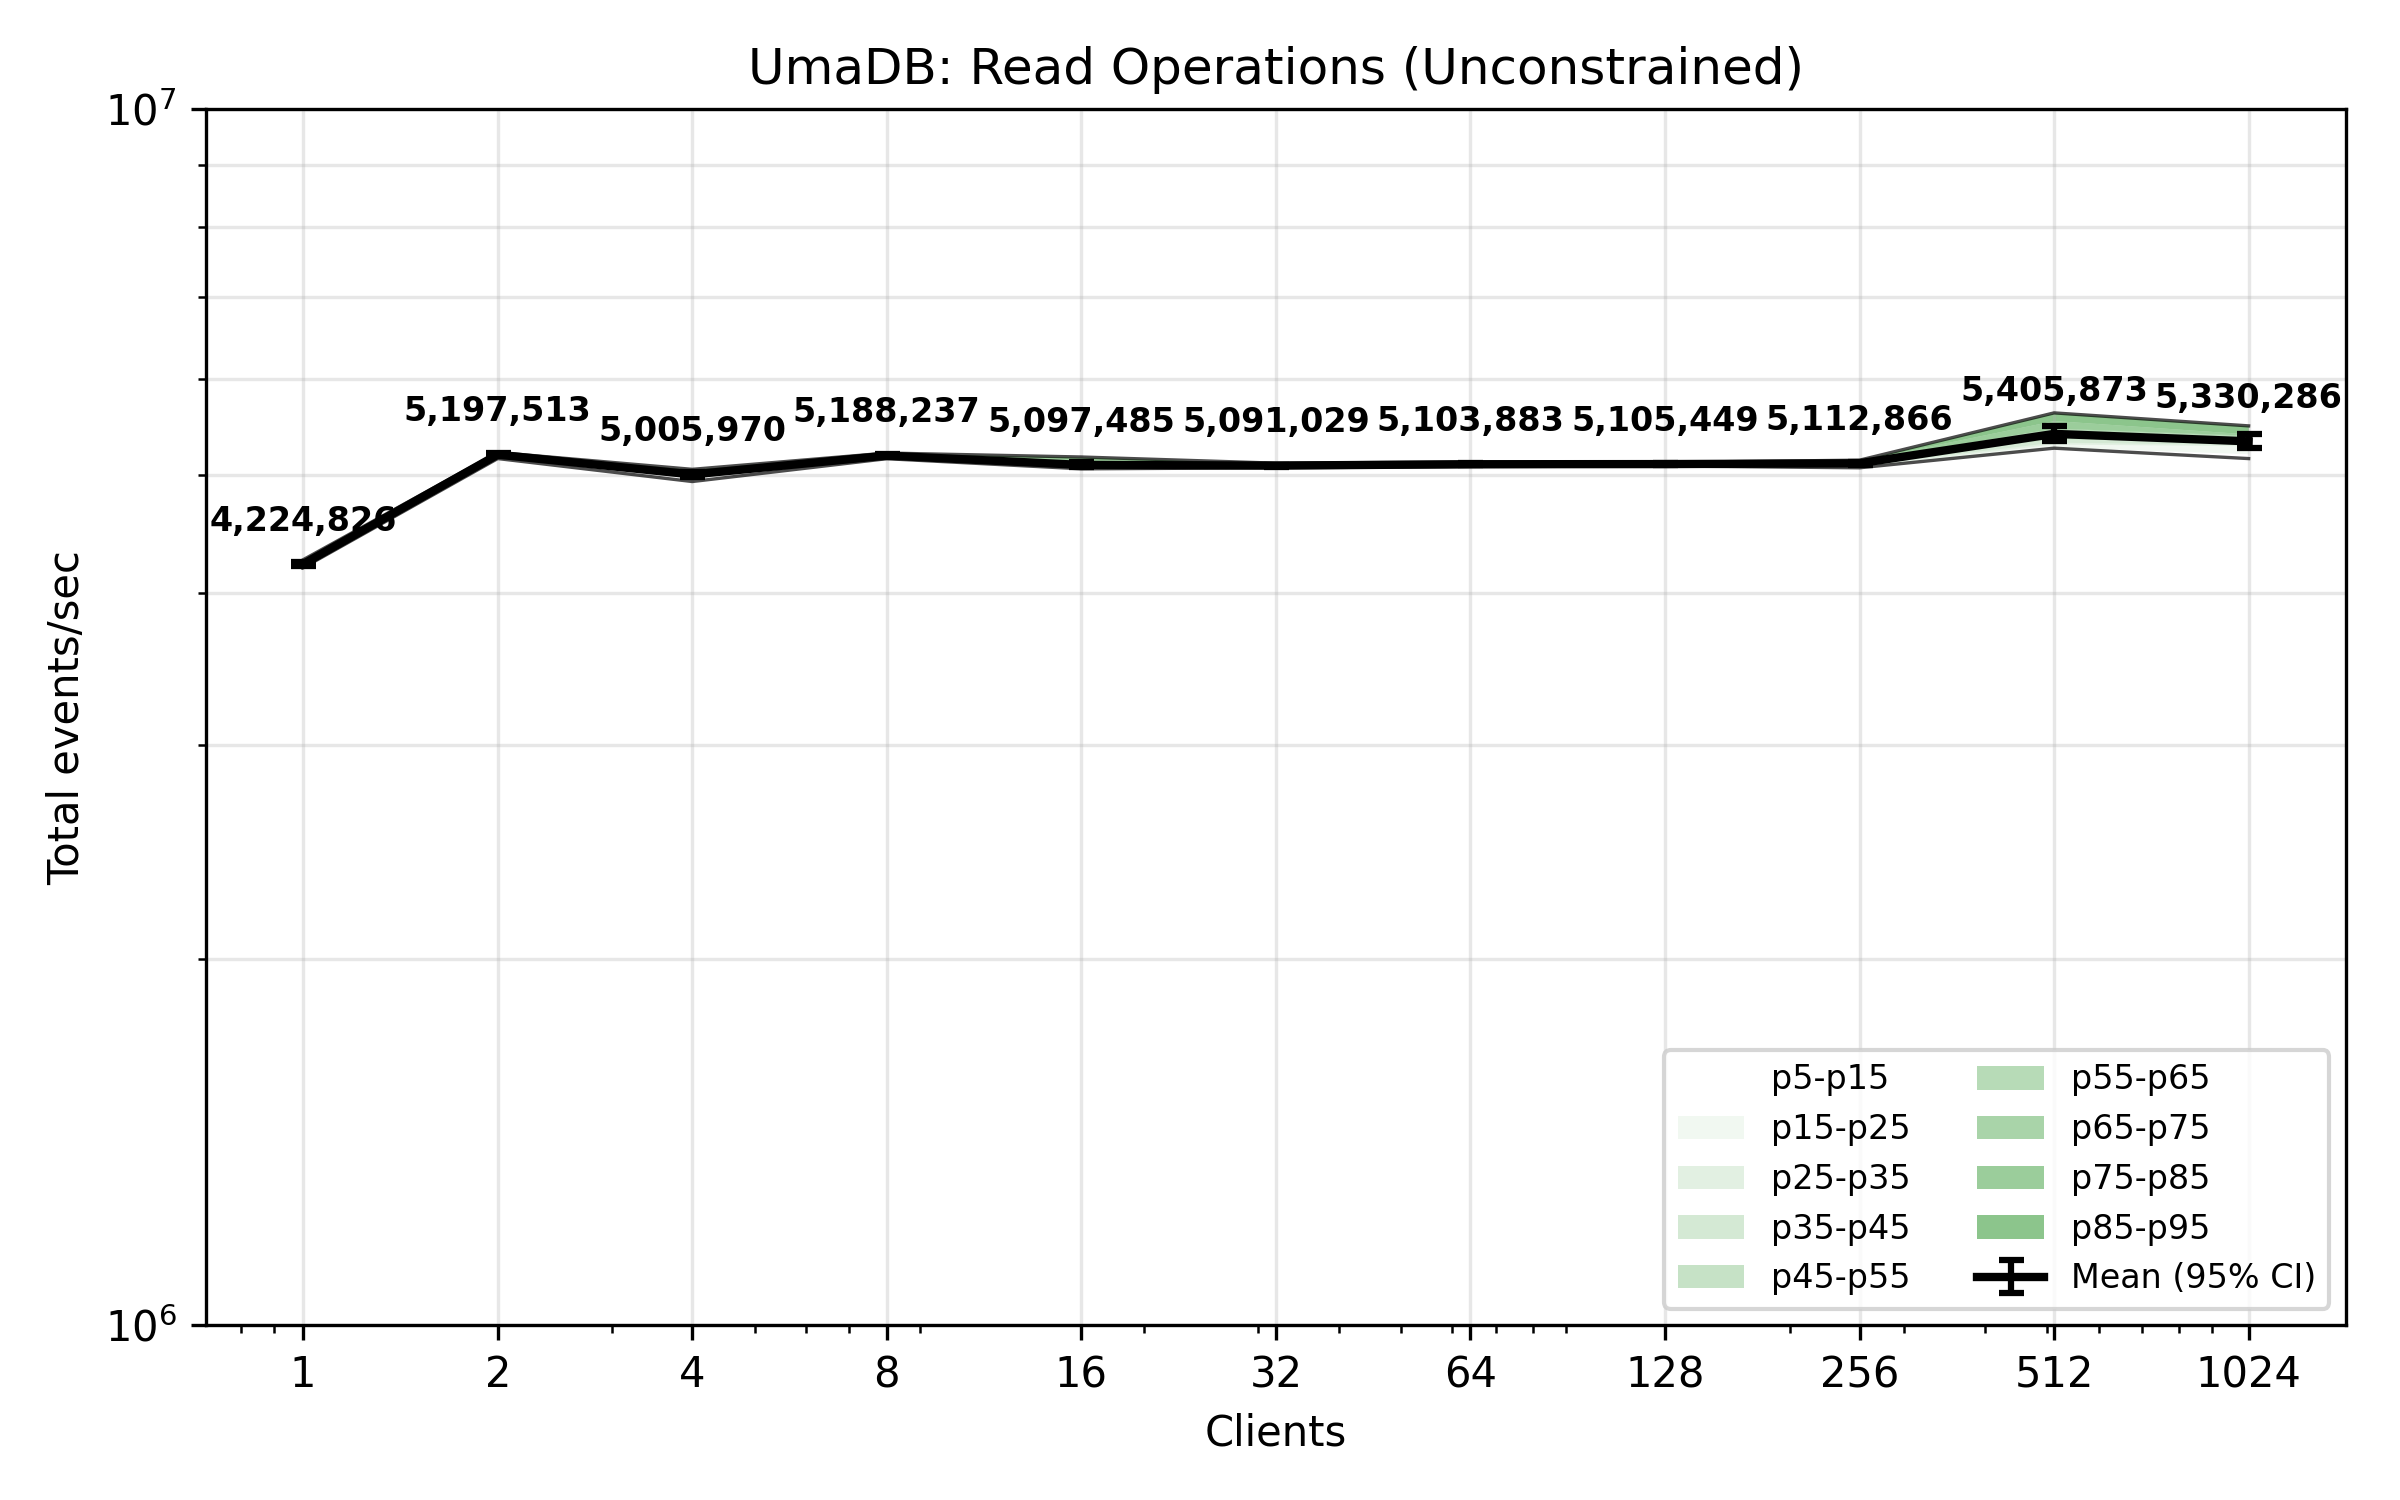
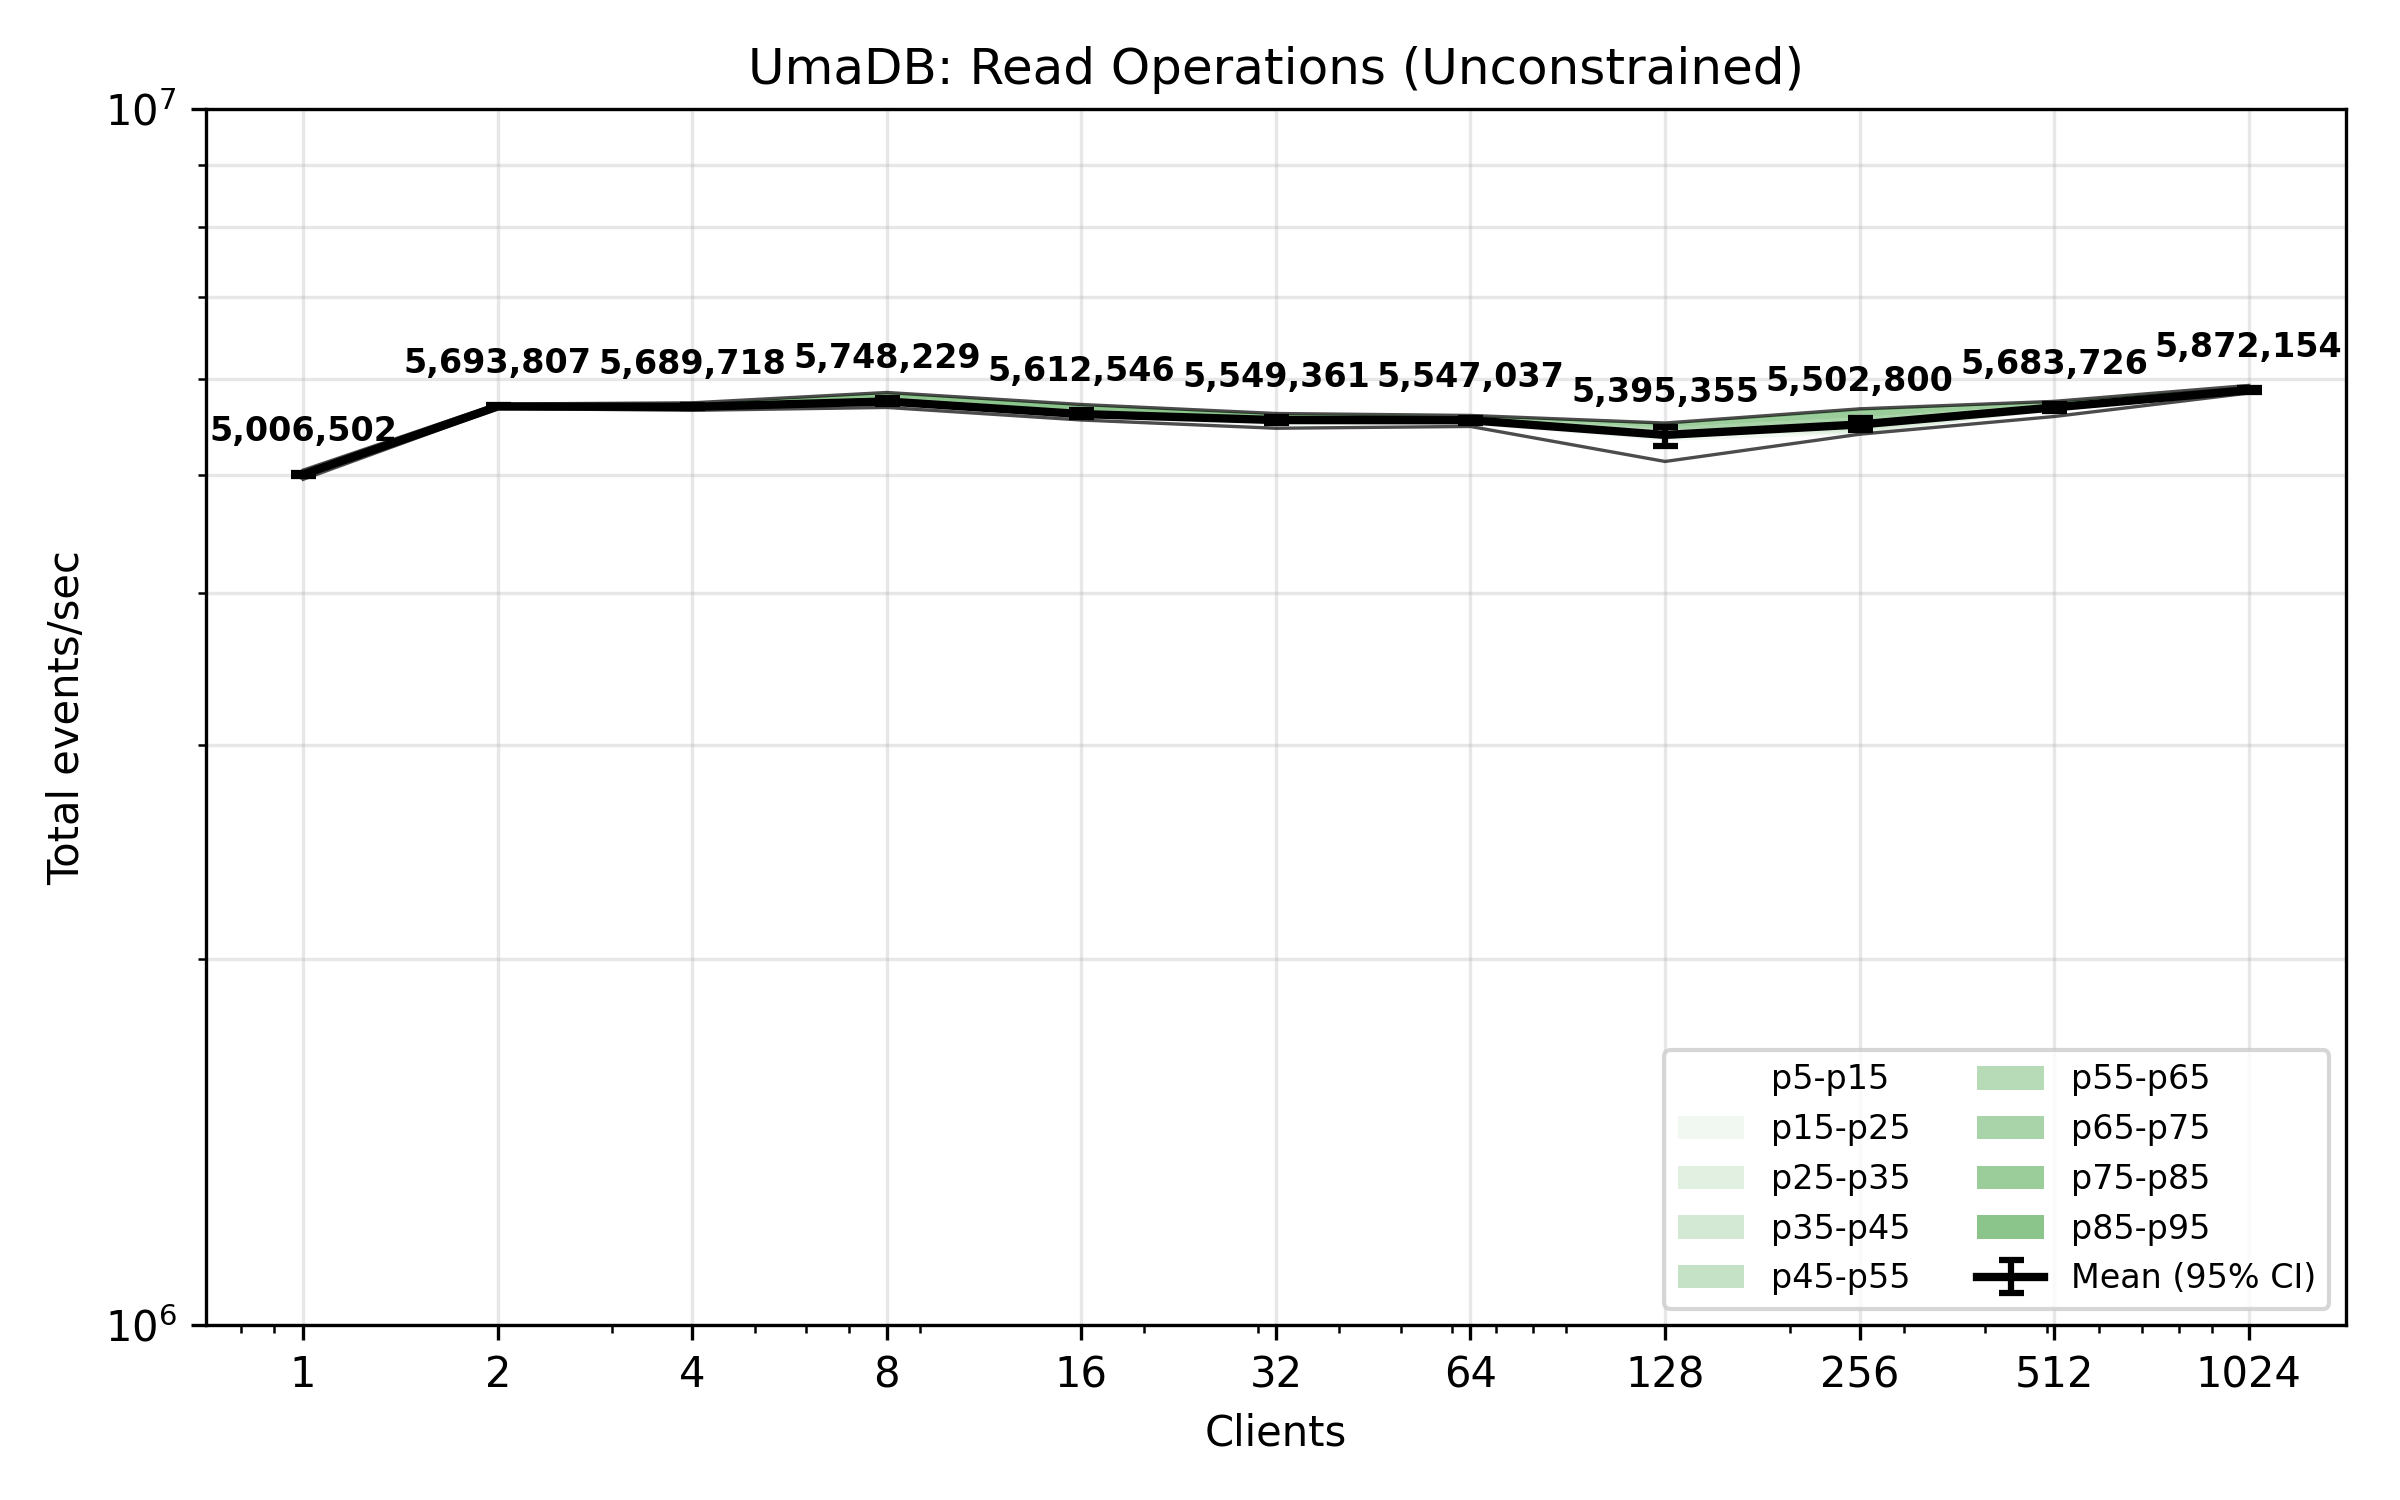
Adjusted benchmark code and updated plots.

Changed region(s): [[0.0938, 0.2147, 0.9688, 0.3987]]

diff --git a/umadb-benches/benches/grpc_read_bench.rs b/umadb-benches/benches/grpc_read_bench.rs
@@ -4,7 +4,7 @@ use std::hint::black_box;
 use std::net::TcpListener;
 use std::sync::Arc;
 use std::thread;
-use std::time::Duration;
+use std::time::{Duration, Instant};
 use tempfile::tempdir;
 use tokio::runtime::Builder as RtBuilder;
 use tokio::sync::oneshot;
@@ -56,12 +56,13 @@ fn init_db_with_events(num_events: usize) -> (tempfile::TempDir, String) {
 }
 
 pub fn grpc_read_benchmark(c: &mut Criterion) {
-    const TOTAL_EVENTS: u32 = 10_000;
-    const READ_BATCH_SIZE: u32 = 1000;
+    const EVENTS_IN_DB: u32 = 1_000_000;
+    const EVENTS_TO_READ: u32 = 100_000;
+    const READ_BATCH_SIZE: u32 = 5000;
     let throttled = is_throttled();
 
     // Initialize DB and server with some events
-    let (_tmp_dir, db_path) = init_db_with_events(TOTAL_EVENTS as usize);
+    let (_tmp_dir, db_path) = init_db_with_events(EVENTS_IN_DB as usize);
 
     // Find a free localhost port
     let listener = TcpListener::bind("127.0.0.1:0").expect("bind to ephemeral port");
@@ -127,7 +128,7 @@ pub fn grpc_read_benchmark(c: &mut Criterion) {
     for &threads in &thread_counts {
         // Report throughput as the total across all runtime worker threads
         group.throughput(Throughput::Elements(
-            (TOTAL_EVENTS as u64) * (threads as u64),
+            (EVENTS_TO_READ as u64) * (threads as u64),
         ));
 
         // Build a Tokio runtime and multiple persistent clients (one per concurrent reader)
@@ -160,10 +161,11 @@ pub fn grpc_read_benchmark(c: &mut Criterion) {
                         let client = clients[i].clone();
                         async move {
                             let mut resp = client
-                                .read(None, None, false, Some(TOTAL_EVENTS), false)
+                                .read(None, None, false, Some(EVENTS_TO_READ), false)
                                 .await
                                 .expect("start read response");
                             let mut count = 0usize;
+                            let loop_start = Instant::now();
                             loop {
                                 let batch = resp.next_batch().await.expect("next_batch ok");
                                 if batch.is_empty() {
@@ -173,12 +175,19 @@ pub fn grpc_read_benchmark(c: &mut Criterion) {
                                     let _evt = black_box(item);
                                     count += 1;
                                 }
-                                if throttled && count % 1000 == 0 {
-                                    tokio::time::sleep(Duration::from_millis(90)).await;
+                                if throttled {
+                                    let target_rate_per_second: u64 = 10_010;
+                                    // Sleep only if we're ahead of the targeted total elapsed time for the
+                                    // number of items processed so far, avoiding per-iteration stalls.
+                                    let desired_elapsed = Duration::from_secs_f64((count as f64) / (target_rate_per_second as f64));
+                                    let elapsed = loop_start.elapsed();
+                                    if desired_elapsed > elapsed {
+                                        tokio::time::sleep(desired_elapsed - elapsed).await;
+                                    }
                                 }
                             }
                             assert_eq!(
-                                count, TOTAL_EVENTS as usize,
+                                count, EVENTS_TO_READ as usize,
                                 "expected to read all preloaded events"
                             );
                         }

diff --git a/umadb-benches/benches/grpc_read_with_writers_bench.rs b/umadb-benches/benches/grpc_read_with_writers_bench.rs
@@ -52,13 +52,14 @@ fn init_db_with_events(num_events: usize) -> (tempfile::TempDir, String) {
 }
 
 pub fn grpc_read_with_writers_benchmark(c: &mut Criterion) {
-    const TOTAL_EVENTS: u32 = 10_000;
-    const READ_BATCH_SIZE: u32 = 1000;
+    const EVENTS_IN_DB: u32 = 1_000_000;
+    const EVENTS_TO_READ: u32 = 100_000;
+    const READ_BATCH_SIZE: u32 = 5000;
     const WRITER_COUNT: usize = 4;
     const WRITER_EVENTS_PER_APPEND: usize = 1; // small continuous appends
 
     // Initialize DB and server with some events
-    let (_tmp_dir, db_path) = init_db_with_events(TOTAL_EVENTS as usize);
+    let (_tmp_dir, db_path) = init_db_with_events(EVENTS_IN_DB as usize);
 
     // Find a free localhost port
     let listener = TcpListener::bind("127.0.0.1:0").expect("bind to ephemeral port");
@@ -163,7 +164,7 @@ pub fn grpc_read_with_writers_benchmark(c: &mut Criterion) {
     for &threads in &thread_counts {
         // Report throughput as the total across all runtime worker threads
         group.throughput(Throughput::Elements(
-            (TOTAL_EVENTS as u64) * (threads as u64),
+            (EVENTS_TO_READ as u64) * (threads as u64),
         ));
 
         // Build a Tokio runtime and multiple persistent clients (one per concurrent reader)
@@ -196,7 +197,7 @@ pub fn grpc_read_with_writers_benchmark(c: &mut Criterion) {
                         let client = clients[i].clone();
                         async move {
                             let mut resp = client
-                                .read(None, None, false, Some(TOTAL_EVENTS), false)
+                                .read(None, None, false, Some(EVENTS_TO_READ), false)
                                 .await
                                 .expect("start read response");
                             let mut count = 0usize;
@@ -211,7 +212,7 @@ pub fn grpc_read_with_writers_benchmark(c: &mut Criterion) {
                                 }
                             }
                             assert_eq!(
-                                count, TOTAL_EVENTS as usize,
+                                count, EVENTS_TO_READ as usize,
                                 "expected to read all preloaded events"
                             );
                         }

diff --git a/umadb-benches/benches/grpc_read_cond_bench.rs b/umadb-benches/benches/grpc_read_cond_bench.rs
@@ -13,8 +13,8 @@ use umadb_core::db::UmaDB;
 use umadb_dcb::{DCBEvent, DCBEventStoreAsync, DCBEventStoreSync, DCBQuery, DCBQueryItem};
 use umadb_server::start_server;
 
-const EVENTS_PER_TAG: u32 = 20;
-const BATCH_SIZE: u32 = 10000;
+const EVENTS_PER_TAG: u32 = 10;
+const NUM_TAGS: u32 = 100000;
 
 fn get_max_threads() -> Option<usize> {
     std::env::var("MAX_THREADS")
@@ -31,8 +31,8 @@ fn init_db_with_events() -> (tempfile::TempDir, String) {
 
     // Prepare events and append in moderate batches to avoid huge allocations
     for _ in 0..EVENTS_PER_TAG {
-        let mut events = Vec::with_capacity(BATCH_SIZE as usize);
-        for j in 0..BATCH_SIZE {
+        let mut events = Vec::with_capacity(NUM_TAGS as usize);
+        for j in 0..NUM_TAGS {
             let ev = DCBEvent {
                 event_type: "bench".to_string(),
                 data: format!("event-{}", j).into_bytes(),
@@ -128,7 +128,7 @@ pub fn grpc_read_cond_benchmark(c: &mut Criterion) {
             let c = rt
                 .block_on(
                     UmaDBClient::new(addr_http.clone())
-                        .batch_size(BATCH_SIZE)
+                        .batch_size(EVENTS_PER_TAG)
                         .connect_async(),
                 )
                 .expect("connect client");

diff --git a/umadb-benches/benches/grpc_read_cond_bench_plot.py b/umadb-benches/benches/grpc_read_cond_bench_plot.py
@@ -5,7 +5,7 @@ from pathlib import Path
 import os
 
 # Keep this in sync with benches/grpc_read_cond_bench.rs
-TOTAL_EVENTS = 20  # events per tag
+EVENTS_PER_TAG = 10
 MAX_THREADS = int(os.environ.get('MAX_THREADS', '0')) if os.environ.get('MAX_THREADS') else None
 
 # Thread variants you ran (match the bench). Edit if you change the bench.
@@ -53,7 +53,7 @@ for t in threads:
     ci_lower_sec = ci_lower_ns / 1e9
     ci_upper_sec = ci_upper_ns / 1e9
     
-    events_total = TOTAL_EVENTS * t  # total across all threads for this variant
+    events_total = EVENTS_PER_TAG * t  # total across all threads for this variant
     
     # Calculate mean throughput
     mean_eps = events_total / mean_sec
@@ -134,7 +134,7 @@ plt.xscale('log')
 plt.yscale('log')
 plt.xlabel('Clients')
 plt.ylabel('Total events/sec')
-plt.title(f'UmaDB: Conditional Read Operations ({TOTAL_EVENTS} events per tag)')
+plt.title(f'UmaDB: Conditional Read Operations ({EVENTS_PER_TAG} events per tag)')
 # Show y-axis grid lines and x-axis grid lines only at major ticks (the labeled x ticks)
 plt.grid(True, which='both', axis='y', alpha=0.3)
 plt.grid(True, which='major', axis='x', alpha=0.3)

diff --git a/umadb-benches/benches/grpc_append_bench.rs b/umadb-benches/benches/grpc_append_bench.rs
@@ -60,7 +60,7 @@ pub fn grpc_append_benchmark(c: &mut Criterion) {
     let events_per_request = get_events_per_request();
     let group_name = format!("grpc_append_{}_per_request", events_per_request);
     let mut group = c.benchmark_group(&group_name);
-    group.sample_size(200);
+    group.sample_size(50);
     group.measurement_time(Duration::from_secs(20));
 
     let all_threads = [1usize, 2, 4, 8, 16, 32, 64, 128, 256, 512, 1024];
@@ -73,7 +73,7 @@ pub fn grpc_append_benchmark(c: &mut Criterion) {
 
     for &threads in &thread_counts {
         // Initialize DB and server with 10_000 events (as requested)
-        let initial_events = 10_000usize;
+        let initial_events = 1_000_000usize;
         let (_tmp_dir, db_path) = init_db_with_events(initial_events);
 
         // Find a free localhost port

diff --git a/umadb-benches/benches/grpc_read_bench_plot.py b/umadb-benches/benches/grpc_read_bench_plot.py
@@ -5,7 +5,7 @@ from pathlib import Path
 import os
 
 # Keep this in sync with benches/grpc_read_bench.rs
-TOTAL_EVENTS = 10_000  # events per iteration per client
+TOTAL_EVENTS = 100_000  # events per iteration per client
 MAX_THREADS = int(os.environ.get('MAX_THREADS', '0')) if os.environ.get('MAX_THREADS') else None
 THROTTLED = bool(os.environ.get('BENCH_READ_THROTTLED', ''))
 GROUP_NAME = "grpc_read_throttled" if THROTTLED else "grpc_read_unthrottled"

diff --git a/umadb-benches/benches/grpc_append_with_readers_bench.rs b/umadb-benches/benches/grpc_append_with_readers_bench.rs
@@ -46,7 +46,7 @@ fn init_db_with_events(num_events: usize) -> (tempfile::TempDir, String) {
 }
 
 pub fn grpc_append_with_readers_benchmark(c: &mut Criterion) {
-    const TOTAL_EVENTS: u32 = 10_000; // preloaded events for readers to loop over
+    const TOTAL_EVENTS: u32 = 1_000_000; // preloaded events for readers to loop over
     const READ_BATCH_SIZE: u32 = 1000;
     const READER_COUNT: usize = 4; // number of background readers
 

diff --git a/umadb-benches/benches/grpc_append_cond_bench.rs b/umadb-benches/benches/grpc_append_cond_bench.rs
@@ -76,7 +76,7 @@ pub fn grpc_append_cond_benchmark(c: &mut Criterion) {
 
     for &threads in &thread_counts {
         // Initialize DB and server with 10_000 events (as requested)
-        let initial_events = 10_000usize;
+        let initial_events = 1_000_000usize;
         let (_tmp_dir, db_path, last_init_pos) = init_db_with_events(initial_events);
 
         // Find a free localhost port

diff --git a/umadb-benches/benches/grpc_read_with_writers_bench_plot.py b/umadb-benches/benches/grpc_read_with_writers_bench_plot.py
@@ -5,7 +5,7 @@ from pathlib import Path
 import os
 
 # Keep this in sync with benches/grpc_read_with_writers_bench.rs
-TOTAL_EVENTS = 10_000
+TOTAL_EVENTS = 100_000
 WRITER_COUNT = 4  # number of background writers running during the read bench
 MAX_THREADS = int(os.environ.get('MAX_THREADS', '0')) if os.environ.get('MAX_THREADS') else None
 
